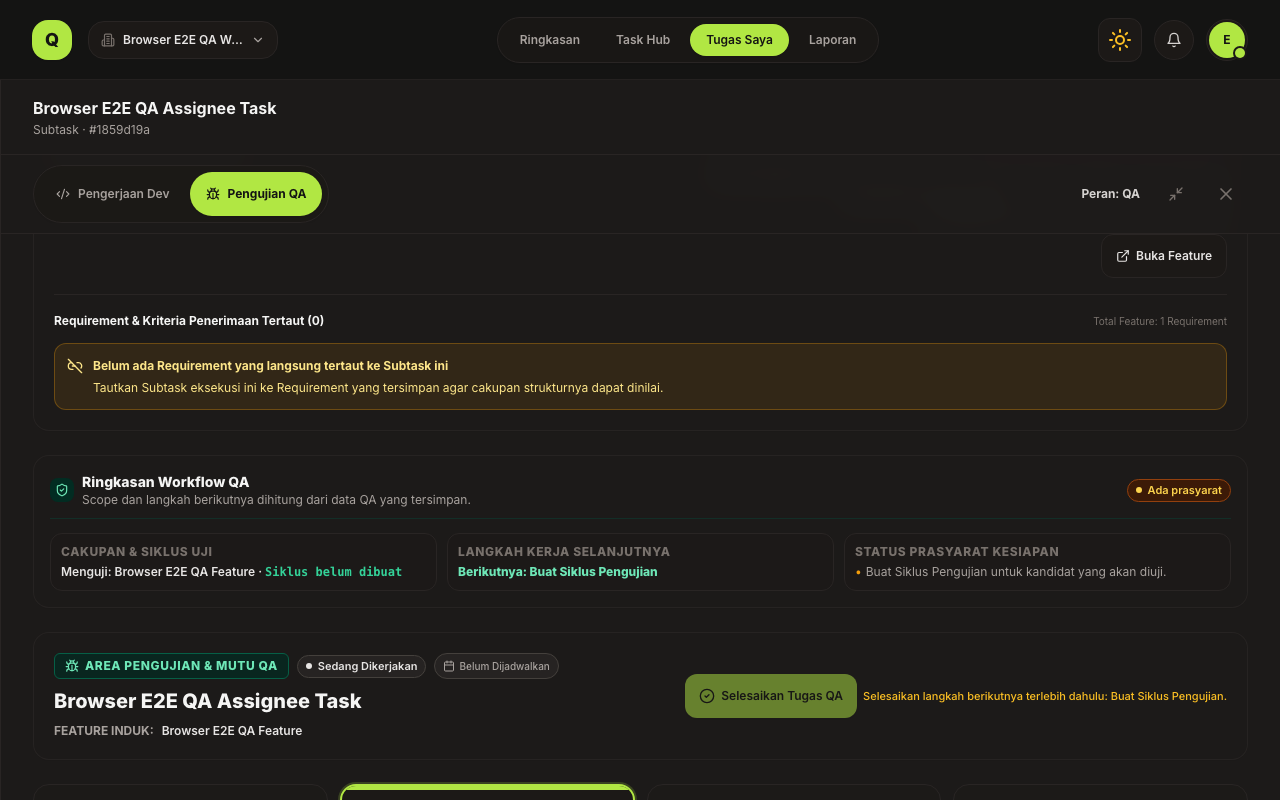
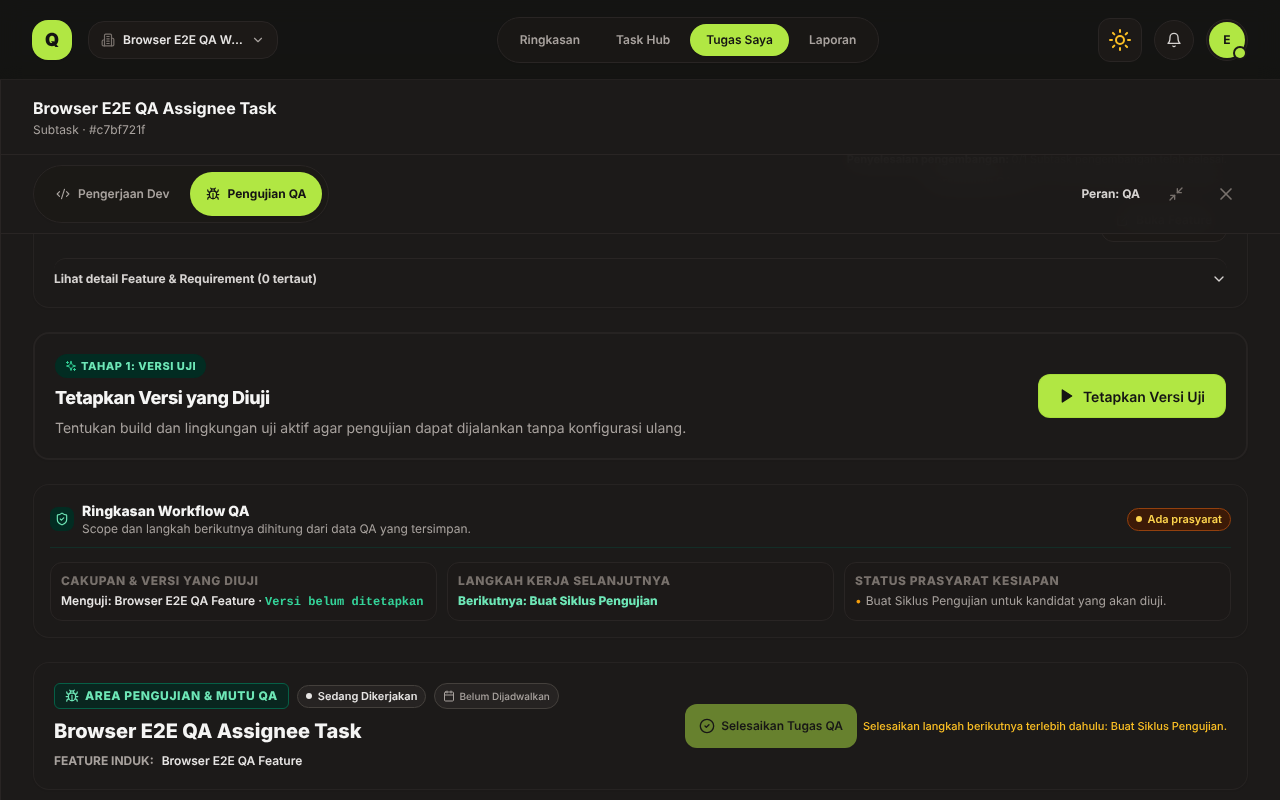
feat(my-tasks): collapse Feature context so the work area is visible first
- MyTaskFeatureContext keeps the Feature title, status, delivery/release
  signals and 'Buka Feature' visible, and moves the description and linked
  Requirements behind a 'Lihat detail Feature & Requirement' toggle
  (collapsed by default, aria-expanded/aria-controls).
- Drop the breadcrumb that repeated the drawer title.
- e2e: after sign-off, reopen the subtask via its deep link and assert the
  Feature context shows 'Lulus 100%' from the versioned test cases.
- Screenshots regenerated from a clean API build.

On 390px the next-action card now appears on the first screen instead of
after a full screen of Feature context.

Claude-Session: https://claude.ai/code/session_015vf4xoBFXTq566SuRmrtzJ

diff --git a/apps/web/src/components/ui/organisms/myTasks/MyTaskFeatureContext.tsx b/apps/web/src/components/ui/organisms/myTasks/MyTaskFeatureContext.tsx
@@ -8,7 +8,7 @@ import type {
 } from '@qlick/contracts';
 import {
   AlertTriangle,
-  ChevronRight,
+  ChevronDown,
   ExternalLink,
   Layers3,
   Link2Off,
@@ -44,6 +44,8 @@ interface MyTaskFeatureContextProps {
   onOpenFeature?: (featureTaskId: string) => void;
   onRetry: () => void;
   userRole?: string;
+  /** Requirement details start collapsed so the work area stays visible, especially on mobile. */
+  defaultExpanded?: boolean;
 }
 
 const structuralLabels: Record<
@@ -141,7 +143,10 @@ export const MyTaskFeatureContext: React.FC<MyTaskFeatureContextProps> = ({
   onOpenFeature,
   onRetry,
   userRole,
+  defaultExpanded = false,
 }) => {
+  const [isExpanded, setIsExpanded] = React.useState(defaultExpanded);
+  const detailsId = React.useId();
   const isDev =
     (userRole || '').toLowerCase() === 'dev' || (userRole || '').toLowerCase() === 'developer';
 
@@ -198,17 +203,6 @@ export const MyTaskFeatureContext: React.FC<MyTaskFeatureContextProps> = ({
 
   return (
     <Card className="space-y-4 p-4 sm:p-5" data-testid="my-task-feature-context">
-      <nav
-        aria-label="Jejak navigasi konteks Feature"
-        className="flex flex-wrap items-center gap-1.5 text-[11px] font-semibold text-stone-500"
-      >
-        <span>Feature / Story</span>
-        <ChevronRight className="h-3.5 w-3.5" />
-        <span className="capitalize">Subtask {task.deliveryArea || 'eksekusi'}</span>
-        <ChevronRight className="h-3.5 w-3.5" />
-        <span className="max-w-full truncate text-stone-700 dark:text-stone-300">{task.title}</span>
-      </nav>
-
       <div className="flex flex-col gap-3 sm:flex-row sm:items-start sm:justify-between">
         <div className="min-w-0">
           <div className="flex flex-wrap items-center gap-2">
@@ -221,11 +215,6 @@ export const MyTaskFeatureContext: React.FC<MyTaskFeatureContextProps> = ({
           <h3 className="mt-2 text-base font-extrabold text-stone-900 dark:text-stone-100">
             {trace.featureTask.title}
           </h3>
-          {trace.featureTask.description && (
-            <p className="mt-1 line-clamp-3 text-xs leading-relaxed text-stone-600 dark:text-stone-400">
-              {stripMarkdown(trace.featureTask.description)}
-            </p>
-          )}
         </div>
         {(!isDev || onOpenFeature) && (
           <div className="space-y-2 sm:text-right">
@@ -248,7 +237,29 @@ export const MyTaskFeatureContext: React.FC<MyTaskFeatureContextProps> = ({
         )}
       </div>
 
-      <div className="border-t border-stone-200 pt-4 dark:border-stone-800">
+      <button
+        type="button"
+        onClick={() => setIsExpanded((value) => !value)}
+        aria-expanded={isExpanded}
+        aria-controls={detailsId}
+        className="flex w-full items-center justify-between gap-2 rounded-xl border-t border-stone-200 pt-3 text-left text-xs font-bold text-stone-700 hover:text-stone-900 focus:outline-none focus-visible:ring-2 focus-visible:ring-[#B1E743]/60 dark:border-stone-800 dark:text-stone-300 dark:hover:text-stone-100"
+      >
+        <span>
+          {isExpanded ? 'Sembunyikan' : 'Lihat'} detail Feature &amp; Requirement (
+          {linkedRequirements.length} tertaut)
+        </span>
+        <ChevronDown
+          className={`h-4 w-4 shrink-0 transition-transform ${isExpanded ? 'rotate-180' : ''}`}
+          aria-hidden="true"
+        />
+      </button>
+
+      <div id={detailsId} hidden={!isExpanded} className="space-y-3">
+        {trace.featureTask.description && (
+          <p className="text-xs leading-relaxed text-stone-600 dark:text-stone-400">
+            {stripMarkdown(trace.featureTask.description)}
+          </p>
+        )}
         <div className="flex flex-col gap-1 sm:flex-row sm:items-center sm:justify-between">
           <h4 className="text-xs font-bold text-stone-900 dark:text-stone-100">
             Requirement &amp; Kriteria Penerimaan Tertaut ({linkedRequirements.length})

diff --git a/apps/web/e2e/specs/qa-desk-flow-integration.spec.ts b/apps/web/e2e/specs/qa-desk-flow-integration.spec.ts
@@ -111,6 +111,16 @@ test('Alur Pass Lengkap: Inisiasi modal rantai 5 langkah, eksekusi versi aktif, 
   // 13. Verifikasi kartu Langkah Berikutnya ter-update langsung ke terminal state tanpa tutup drawer
   await expect(page.getByText('Pengujian & Persetujuan QA Selesai')).toBeVisible();
   await expect(page.getByText('Persetujuan QA Tercatat')).toBeVisible();
+
+  // Konteks Feature membaca test case berversi: setelah dibuka ulang, hasil lulus tampil
+  // (sebelumnya selalu "Belum ada hasil pengujian").
+  await page.goto(`/projects/${flowContext.workspaceId}/tasks/${flowContext.passQaSubtaskId}`);
+  const featureContext = page.getByTestId('my-task-feature-context');
+  await expect(featureContext.getByText('Lulus 100%')).toBeVisible({ timeout: 10000 });
+  await expect(featureContext.getByText('Belum ada hasil pengujian')).toHaveCount(0);
+  await expect(
+    page.getByRole('button', { name: /Lihat detail Feature & Requirement/ }),
+  ).toHaveAttribute('aria-expanded', 'false');
   await expect(page.getByRole('button', { name: 'Beri Persetujuan QA' })).not.toBeVisible();
 
   // Verifikasi hitungan klik aktual: Target Prompt 6 adalah <= 12 klik (realistis 10-11 klik)

diff --git a/apps/web/e2e/support/qaDeskFlowSeed.ts b/apps/web/e2e/support/qaDeskFlowSeed.ts
@@ -37,6 +37,7 @@ let workspaceId = '';
 let featureTaskId = '';
 let bugFeatureTaskId = '';
 let devUserId = '';
+let passQaSubtaskId = '';
 
 /** Ids created by {@link seedQaDeskFlow}; read them inside tests, after beforeAll ran. */
 export const flowContext = {
@@ -51,6 +52,9 @@ export const flowContext = {
   },
   get devUserId() {
     return devUserId;
+  },
+  get passQaSubtaskId() {
+    return passQaSubtaskId;
   },
 };
 
@@ -132,7 +136,7 @@ export async function seedQaDeskFlow() {
     linkedBy: po.id,
   });
 
-  await TaskModel.create({
+  const passSubtask = await TaskModel.create({
     workspaceId,
     parentTaskId: passFeature.id,
     deliveryArea: 'qa',
@@ -142,6 +146,7 @@ export async function seedQaDeskFlow() {
     assigneeId: qa.id,
     reporterId: po.id,
   });
+  passQaSubtaskId = passSubtask.id;
 
   const brief1 = await QaDocumentModel.create({
     workspaceId,

diff --git a/apps/web/src/components/ui/organisms/myTasks/__tests__/MyTaskFeatureContext.test.tsx b/apps/web/src/components/ui/organisms/myTasks/__tests__/MyTaskFeatureContext.test.tsx
@@ -24,9 +24,12 @@ describe('MyTaskFeatureContext', () => {
       />,
     );
 
-    expect(screen.getByLabelText('Jejak navigasi konteks Feature')).toHaveTextContent(
-      'Feature / StorySubtask frontendImplement checkout summary',
-    );
+    const detailsToggle = screen.getByRole('button', {
+      name: /Lihat detail Feature & Requirement/,
+    });
+    expect(detailsToggle).toHaveAttribute('aria-expanded', 'false');
+    fireEvent.click(detailsToggle);
+    expect(detailsToggle).toHaveAttribute('aria-expanded', 'true');
     expect(screen.getByRole('heading', { name: 'Checkout Feature' })).toBeInTheDocument();
     expect(screen.getByText('Cakupan 1/1 Requirement')).toBeInTheDocument();
     expect(screen.getByText('Review checkout before confirmation')).toBeInTheDocument();

diff --git a/apps/web/src/components/ui/organisms/myTasks/__tests__/MyTaskDetailWorkspaceDrawer.test.tsx b/apps/web/src/components/ui/organisms/myTasks/__tests__/MyTaskDetailWorkspaceDrawer.test.tsx
@@ -270,9 +270,9 @@ describe('MyTaskDetailWorkspaceDrawer Organism', () => {
       await screen.findByText('Belum ada Test Case yang tertaut ke Feature ini'),
     ).toBeInTheDocument();
     expect(screen.getByRole('heading', { name: 'Payment Selection Feature' })).toBeInTheDocument();
-    expect(screen.getByLabelText('Jejak navigasi konteks Feature')).toHaveTextContent(
-      'Implement payment selector',
-    );
+    expect(
+      screen.getByRole('button', { name: /Lihat detail Feature & Requirement/ }),
+    ).toHaveAttribute('aria-expanded', 'false');
   });
 
   it('reloads the backend-supplied Feature context after the drawer is mounted again', async () => {
